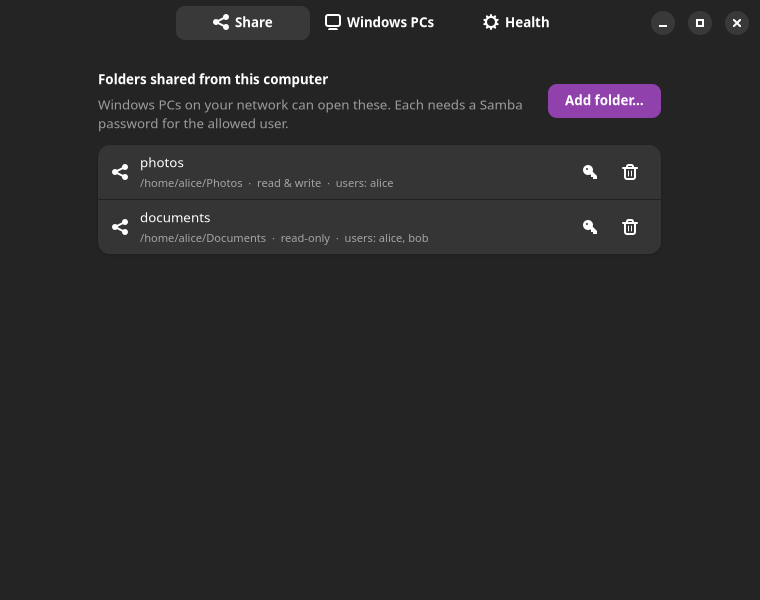
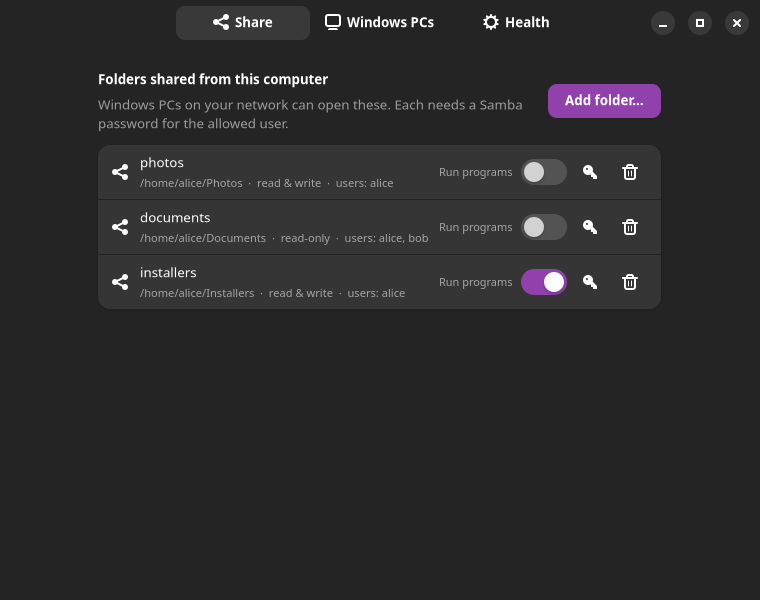
Document running programs from a share; refresh the Share screenshot
Explains why Windows reports "no permission" for programs on a share, the
share-wide fix (--allow-run) and the single-file alternative (chmod u+x), the
caution to enable it only for folders you trust, and adds a troubleshooting
row. Updates the test count to 81 and re-renders the Share screenshot (demo
data) to show the new switch.

diff --git a/tools/screenshots.py b/tools/screenshots.py
@@ -33,8 +33,9 @@ class DemoBackend:
         ])
 
     def shares(self):
-        return [{"name": "photos", "path": "/home/alice/Photos", "users": ["alice"], "read_only": False},
-                {"name": "documents", "path": "/home/alice/Documents", "users": ["alice", "bob"], "read_only": True}]
+        return [{"name": "photos", "path": "/home/alice/Photos", "users": ["alice"], "read_only": False, "allow_run": False},
+                {"name": "documents", "path": "/home/alice/Documents", "users": ["alice", "bob"], "read_only": True, "allow_run": False},
+                {"name": "installers", "path": "/home/alice/Installers", "users": ["alice"], "read_only": False, "allow_run": True}]
 
     def mounts(self):
         return [{"name": "office-projects", "host": "192.168.1.50", "share": "Projects", "user": "alice", "local_user": "alice",

diff --git a/README.md b/README.md
@@ -121,7 +121,8 @@ The `.deb` and `.rpm` list the GUI libraries as *recommended* packages. Arch lis
 | Command | What it does |
 |---|---|
 | `lan-share detect` | Distribution, what is installed, LAN interfaces found |
-| `lan-share share add NAME PATH --user U [--user U2] [--rw] [--apply]` | Add a shared folder (read-only unless `--rw`); `--apply` also runs `setup` |
+| `lan-share share add NAME PATH --user U [--user U2] [--rw] [--allow-run] [--apply]` | Add a shared folder (read-only unless `--rw`; `--allow-run` lets Windows run programs from it, see below); `--apply` also runs `setup` |
+| `lan-share share set NAME --allow-run` / `--no-allow-run` [`--apply`] | Change an existing share |
 | `lan-share share list` / `share remove NAME [--apply]` | List / remove shared folders |
 | `lan-share setup [--apply] [--interface IF] [--zone Z] [--allow-untrusted-zone]` | Install and configure everything for the saved shares |
 | `lan-share user add NAME` | Set the Samba password for an existing Linux user (Samba keeps its own password database) |
@@ -139,11 +140,24 @@ Notes:
 - Use the PC's **IP address** for mounts; Windows computer names often don't resolve on Linux. If the IP changes, `scan` finds it again.
 - `--root DIR` stages file writes into a scratch directory and skips all commands — handy for reviewing what `setup` would write.
 
+### Running programs from a share
+
+By default Windows can **read** the files in a share but not **run** programs from it. If you double-click an installer or `.exe` on the share, Windows says you don't have permission to access it. That is deliberate Samba behaviour: Windows asks to *open the file for execution*, and Samba grants that only when the file has Linux's execute bit. Files saved by a browser or copied in never have it, so every `.exe` and `.msi` hits the error even though the same user can read and copy them.
+
+Two ways to fix it:
+
+- **For the whole share** (recommended when you do this regularly): `sudo lan-share share set NAME --allow-run --apply`, or tick *Allow running programs* when adding a folder in the app, or flip the switch next to an existing share. Undo with `--no-allow-run`.
+- **For one file**: `chmod u+x file.exe` on the Linux side. Nothing else changes.
+
+What the option does: it sets Samba's `acl allow execute always = yes` on that share only. Samba never runs anything itself, so nothing executes on Linux. It only lets Windows run the files. Enable it for folders you trust, and be careful if other people or programs can write into the folder, since Windows could then run whatever is dropped there. It is off by default.
+
+Not related to this: Windows may still show its own *"Open File - Security Warning"* or SmartScreen prompt when running a program from a network location. That is normal; check the publisher before choosing *Run*.
+
 ### Graphical app
 
 `lan-share gui`, or **LAN Share** in your application menu. Three tabs:
 
-- **Share** — add a folder (pick it, name it, choose who may open it and whether they may change files), remove it, and set the Samba password (key icon).
+- **Share** — add a folder (pick it, name it, choose who may open it, whether they may change files, and whether Windows may run programs from it), remove it, set the Samba password (key icon), or flip the *run programs* switch on an existing share.
 - **Windows PCs** — **Scan**, pick a computer, sign in, choose one of its folders, **Connect**; later **Open** or disconnect it.
 - **Health** — the `doctor` checks, problems first. **Full check** also runs the checks that need administrator rights.
 
@@ -221,7 +235,7 @@ Stated plainly, because "runs on all distros" is a claim that needs evidence.
 - The bundled wsdd starts and joins the WS-Discovery multicast group on Python 3.9 through 3.15, with the same arguments the systemd unit uses (including the chroot).
 - The `.deb`, `.rpm` and Arch package install through each distribution's package manager, pull in dependencies, run (`--version`, `detect`, `setup` and `teardown` dry runs, `doctor`, the privileged helper and its refusals), and uninstall leaving nothing behind.
 
-**Unit and GUI tests:** 75 tests (`make test`), including the real GTK window driven headlessly against a fake backend. Security-relevant tests were checked by deliberately breaking the code (e.g. letting the helper accept `--root`, making the policy permissive, trusting the caller's environment) and confirming a test fails.
+**Unit and GUI tests:** 81 tests (`make test`), including the real GTK window driven headlessly against a fake backend. Security-relevant tests were checked by deliberately breaking the code (e.g. letting the helper accept `--root`, making the policy permissive, trusting the caller's environment) and confirming a test fails.
 
 **Not tested — please read:**
 - Containers have no systemd, real firewall or real Windows PC. Service startup, firewall rules and Network-tab visibility were **only verified end to end on the Fedora laptop**. Other distributions are verified up to "installs, configures correctly, and the pieces run".
@@ -237,6 +251,7 @@ Start with `lan-share doctor` (add `sudo` for the root-only checks). Common caus
 |---|---|---|
 | Computer missing from the Network tab, but `\\ip\share` works | Windows network profile is Public, or Network discovery is off | [Windows checklist](#windows-side-checklist) |
 | Not in the Network tab, `\\ip\share` doesn't work either | Firewall blocking, or Samba not running | `doctor` reports which; `sudo lan-share setup --apply` re-applies |
+| Windows says "you do not have permission" when you double-click an `.exe`/`.msi` on the share, though you can open other files | Samba needs the Linux execute bit to let Windows run a file | `sudo lan-share share set NAME --allow-run --apply`, or `chmod u+x file` ([details](#running-programs-from-a-share)) |
 | Windows asks for a password and rejects it | The Samba password is separate from the Linux login password | `sudo lan-share user add <name>` |
 | "Access denied" although the password is right | SELinux label missing on the folder | `doctor` shows it; `setup --apply` relabels |
 | `mount add` says login works but share not found | Wrong share name | `lan-share shares HOST --user U` lists the real names |
@@ -260,7 +275,7 @@ sudo apt remove lan-share          # or: dnf remove / pacman -R / zypper remove 
 git clone https://github.com/balojr/linux-windows-network-share.git && cd linux-windows-network-share
 export PYTHONPATH=src
 python3 -m lan_share detect            # run from the checkout, no install
-python3 -m unittest discover -s tests  # 75 tests (GUI tests need GTK 4 + libadwaita + gtk4-broadwayd; they skip otherwise)
+python3 -m unittest discover -s tests  # 81 tests (GUI tests need GTK 4 + libadwaita + gtk4-broadwayd; they skip otherwise)
 ```
 
 | Path | Contents |
